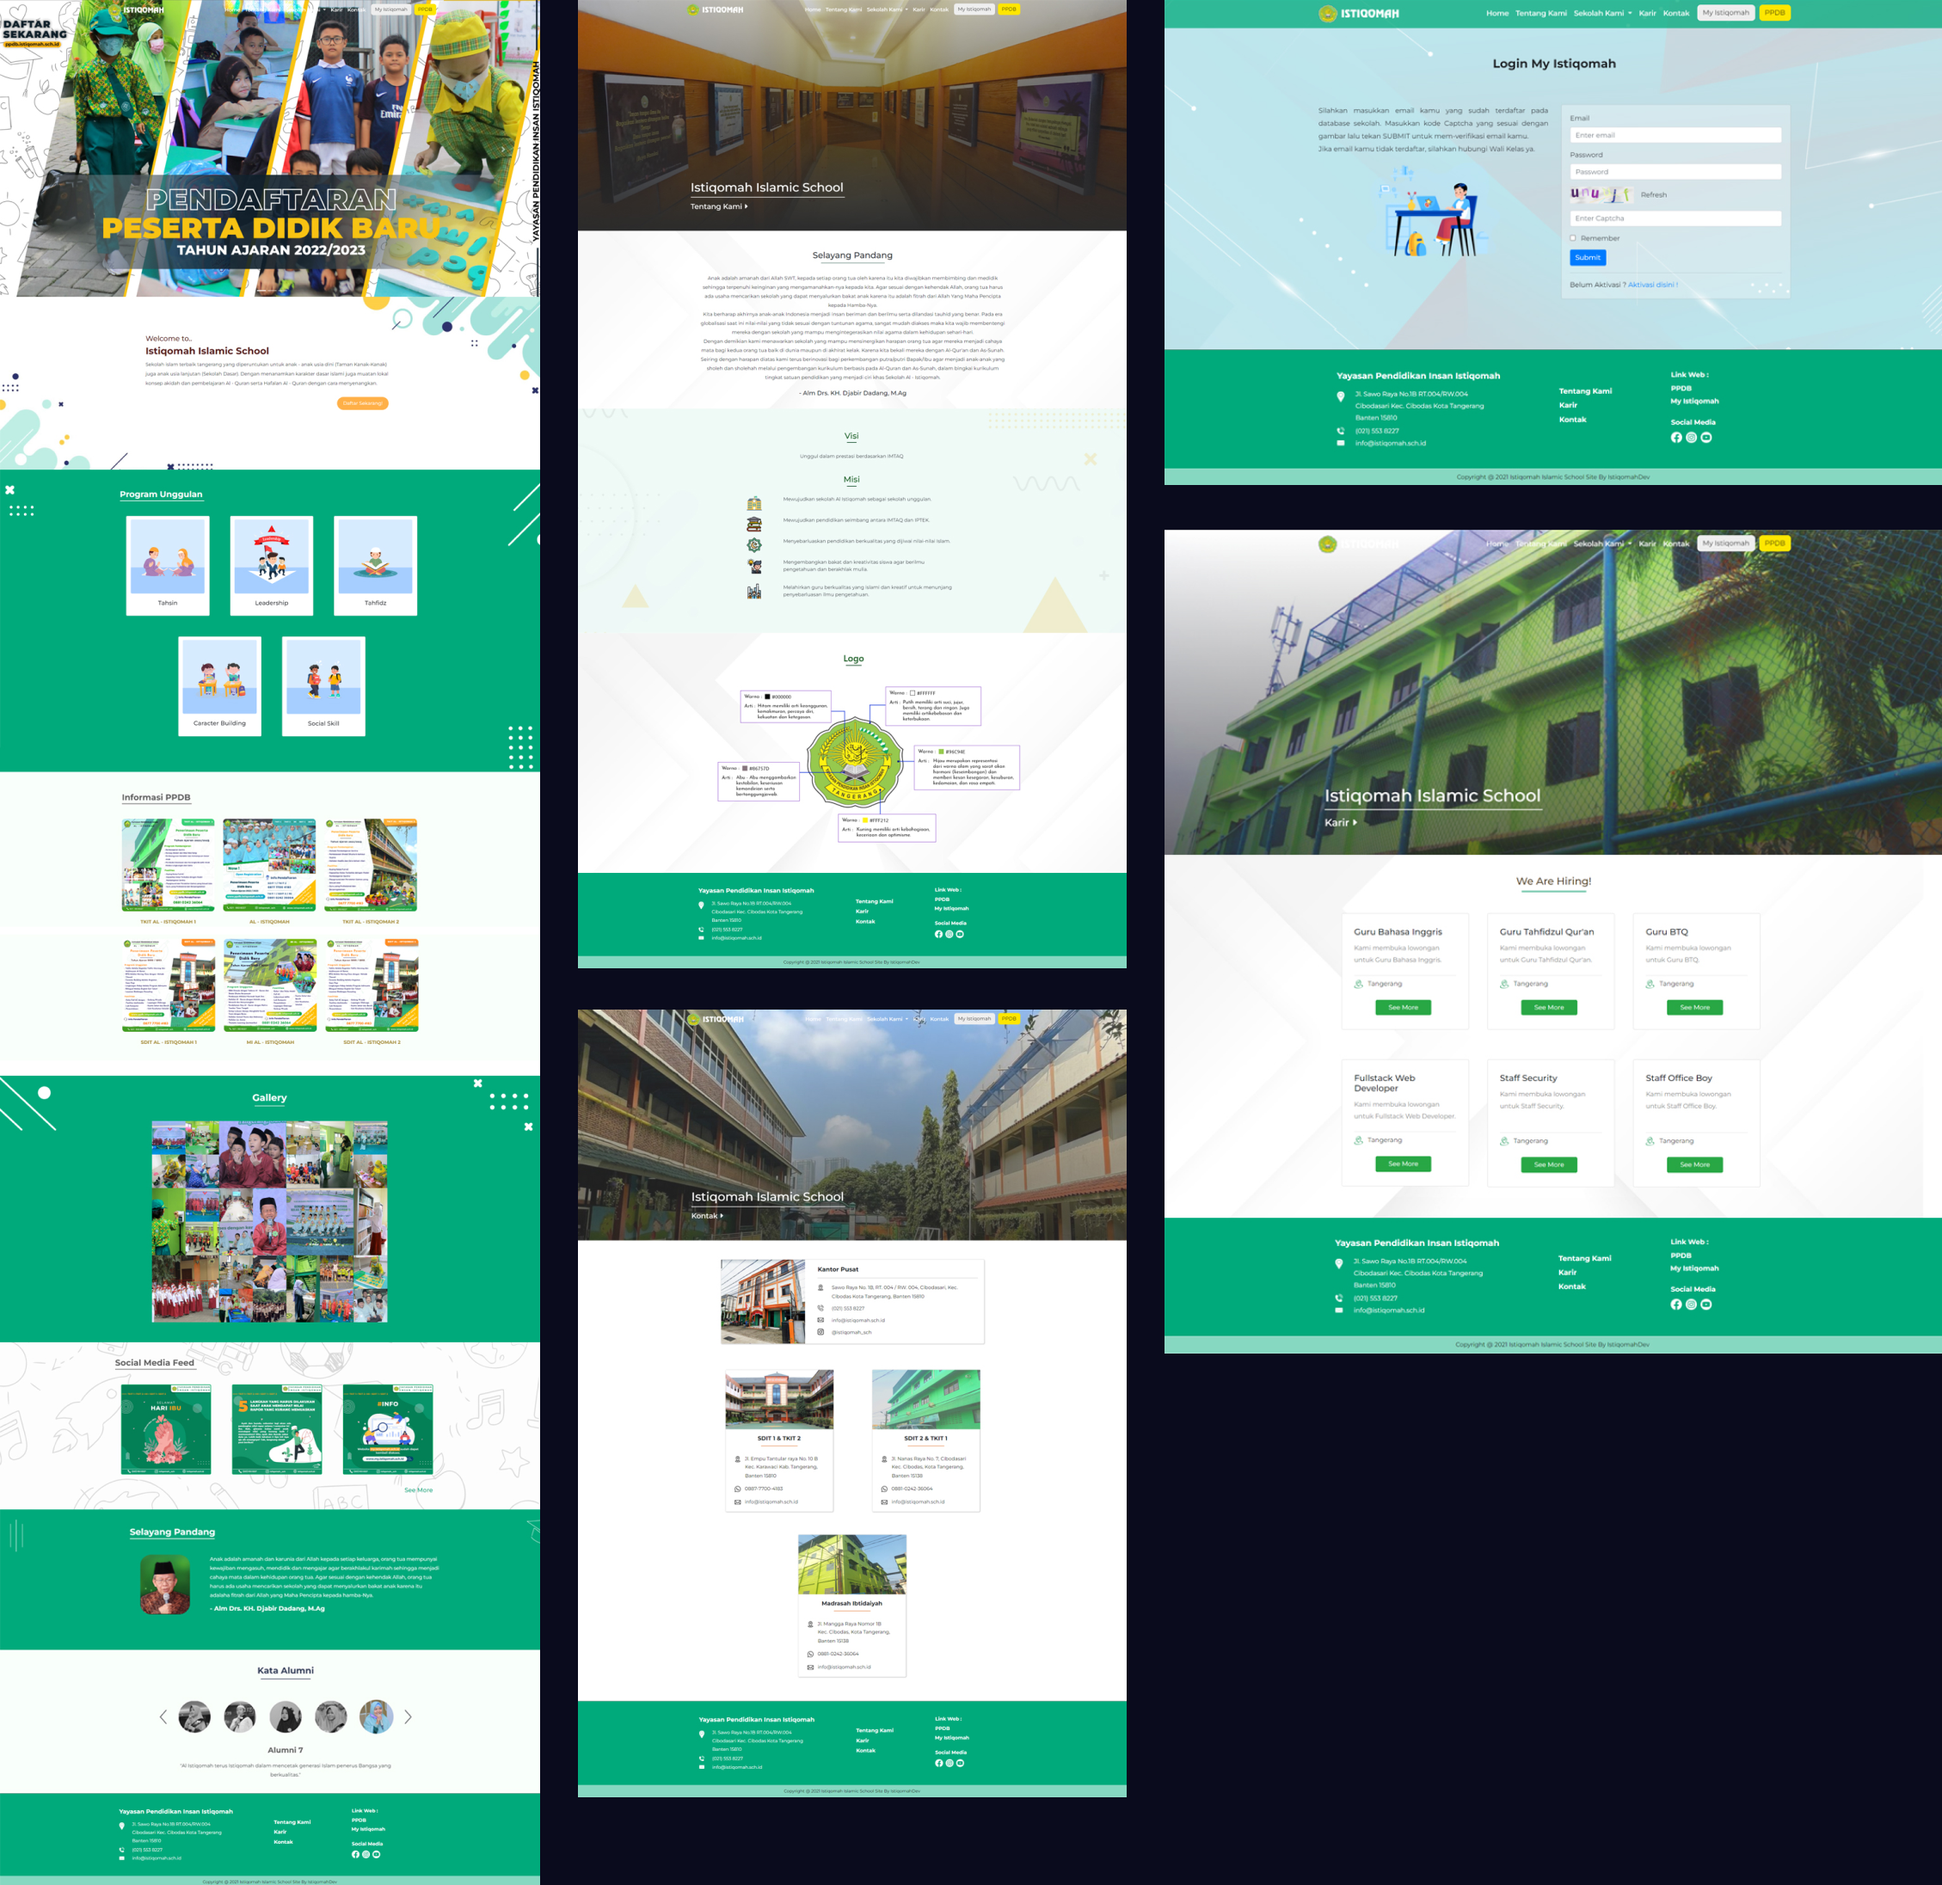
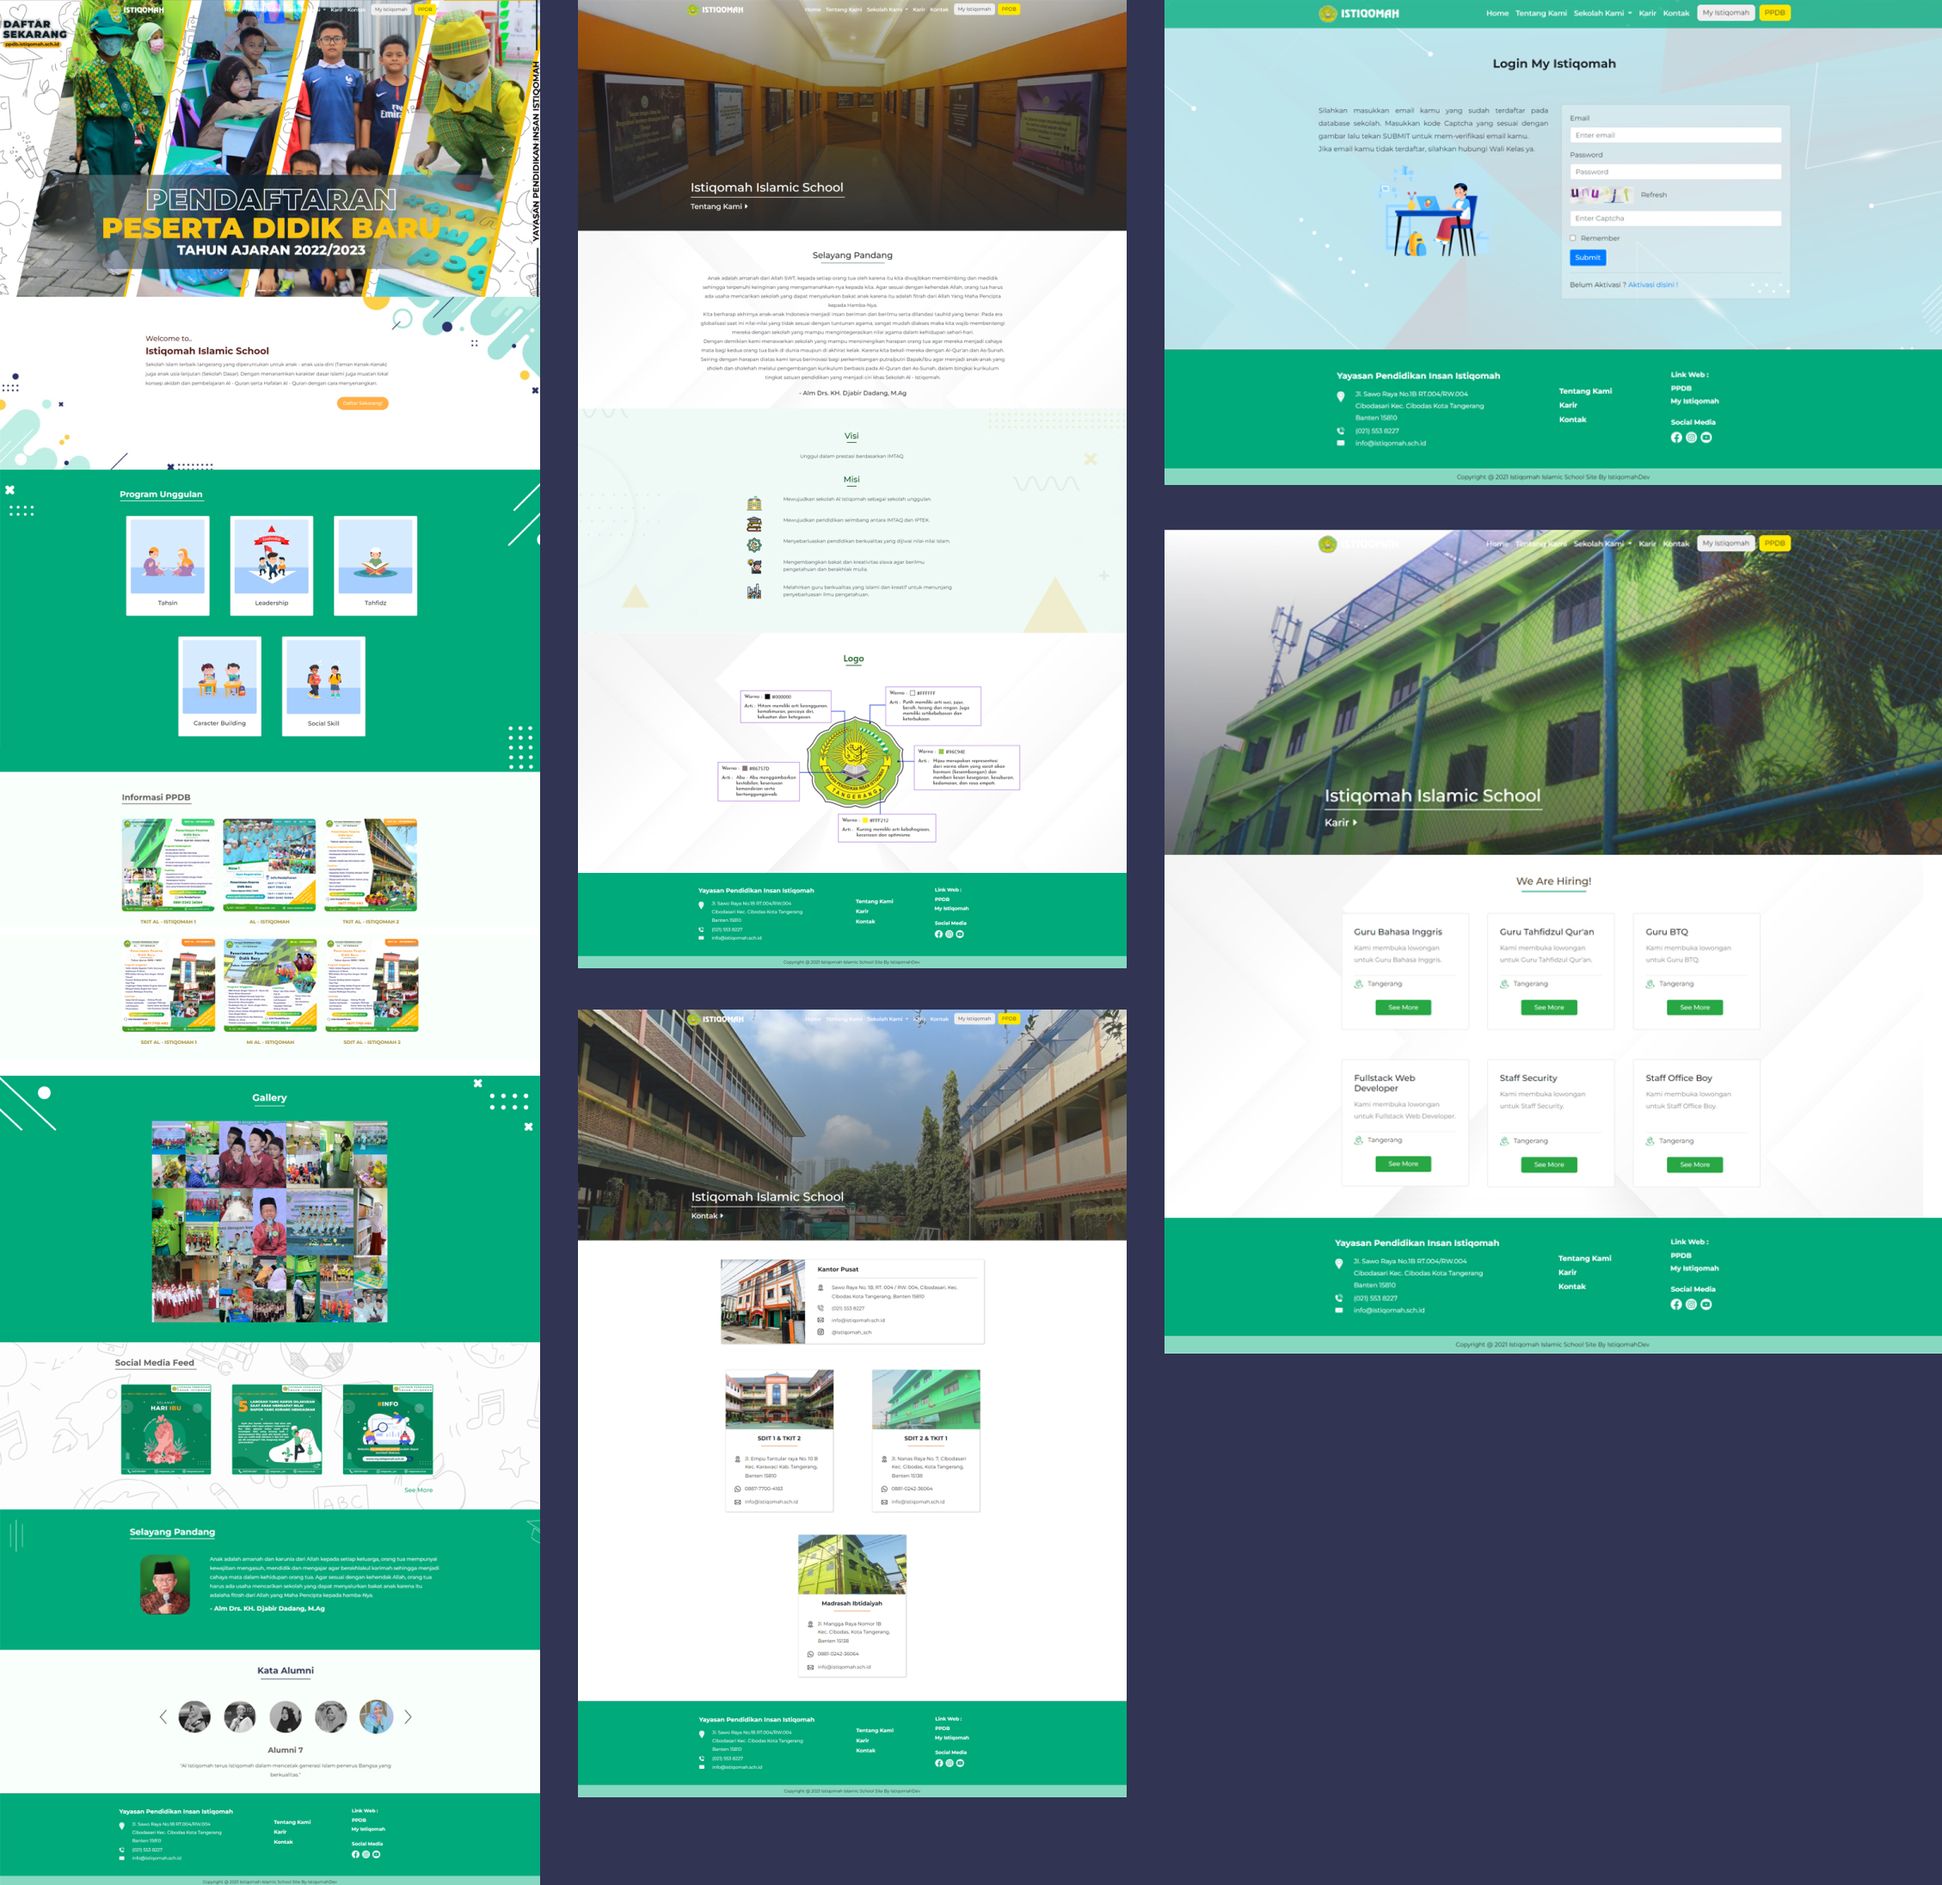
update

Changed region(s): [[0.279, 0.0, 1.0, 1.0]]

diff --git a/src/Style/Hero.css b/src/Style/Hero.css
@@ -23,7 +23,7 @@
     font-family: 'Righteous', cursive;
     color: rgb(28, 28, 28);
     letter-spacing: 2px;
-    font-size: 37px;
+    font-size: 35px;
     padding: 120px 80px;
     line-height: 80px;
 }
@@ -49,10 +49,18 @@
     }
 }
 
-@media screen and (max-width: 642px) {
+@media screen and (max-width: 754px) {
     .hero {
-        font-size: 28px;
-        padding-bottom: 50px;
+        font-size: 23px;
+        padding-top: 70px;
+        padding-bottom: 70px;
+    }
+}
+
+@media screen and (max-width: 655px) {
+    .hero {
+        font-size: 20px;
+        padding-bottom: 40px;
     }
 }
 
@@ -65,13 +73,25 @@
     }
 }
 
+@media screen and (max-width: 465px) {
+    .hero {
+        font-size: 16px;
+    }
+}
 
-@media screen and (max-width: 387px) {
+@media screen and (max-width: 391px) {
     .hero {
         padding-left: 20px;
         padding-top: 70px;
         padding-bottom: 30px;
-        font-size: 17px;
         line-height: 45px;
+    }
+}
+
+@media screen and (max-width: 379px) {
+    .hero {
+        padding-left: 10px;
+        padding-top: 50px;
+        font-size: 14px;
     }
 }

diff --git a/src/Component/About.js b/src/Component/About.js
@@ -11,7 +11,7 @@ export default function About() {
                 <img src={ImgMe} alt="me" />
             </div>
             <div className="text-me">
-               <p>Seorang Web Designer. Suka menghabiskan waktu berjam-jam di depan laptop bersama es kopi dan lagu-lagu favorite. Melakukan eksplorasi design dan suka membuat design yang simple dan modern yang memiliki fungsionalitas yang baik dan juga user friendly. Suka melakukan slicing design dengan skills tech stack yang dimiliki. Saat ini bertempat tinggal di Tangerang.</p>
+               <p>Senang menghabiskan waktu di depan laptop sambil mendengarkan lagu-lagu favorite bersama es kopi. Melakukan eksplorasi design dan suka membuat design web yang simple juga user friendly. Suka melakukan slicing design dengan skills tech stack yang dimiliki. Saat ini bertempat tinggal di Tangerang.</p>
                <p>Skills frontend dan design tools:</p>
                <div className="list-skills">
                 <ul className='list-1'>

diff --git a/src/Style/About.css b/src/Style/About.css
@@ -5,8 +5,8 @@
 }
 
 .img-me img {
-    width: 300px;
-    margin-top: 50px;
+    width: 420px;
+    margin-top: 40px;
 }
 
 .text-me {
@@ -31,13 +31,18 @@
     margin-left: 20px;
 }
 
+@media screen and (max-width: 1082px) {
+    .img-me img {
+        width: 350px;
+        margin-top: 50px;
+    }
+}
+
 @media screen and (max-width: 991px) {
     .about-me {
         padding: 90px 0 120px;
     }
-    .img-me img {
-        width: 250px;
-    }
+   
 }
 
 @media screen and (max-width: 880px) {
@@ -53,7 +58,8 @@
     }
 
     .img-me img {
-        width: 350px;
+        width: 420px;
+        margin-top: 20px;
     }
 
     .text-me {
@@ -69,12 +75,13 @@
         padding: 0px 0 80px;
     }
     .img-me img {
-        width: 250px;
+        width: 330px;
+        margin-top: 50px;
     }
 }
 
 @media screen and (max-width: 387px) {
     .img-me img {
-        width: 220px;
+        width: 260px;
     }
 }

diff --git a/src/Component/Portfolio/BurgerEnak.js b/src/Component/Portfolio/BurgerEnak.js
@@ -9,7 +9,7 @@ export default function Meppsimo() {
         <h2>Website Burger Enak</h2>
             <div className="text-projects">
                 <div className="subtitle-text">
-                    <p>Karena suka baget sama burger, muncul lah ide bikin web landing page ini. Dengan menerapkan prinsip swiss style, jelas design ui nya terlihat simple dan objektif tentunya.</p>
+                    <p>Karena suka banget sama burger, muncul lah ide bikin web landing page ini. Dengan menerapkan prinsip swiss style, jelas design ui nya terlihat simple dan objektif tentunya.</p>
                     <a href="https://burger-enak.netlify.app/" target="_blank" rel="noreferrer"><button>Lihat Web</button></a>
                     
                 </div>

diff --git a/src/Component/Hero.js b/src/Component/Hero.js
@@ -10,9 +10,9 @@ export default function Hero() {
         <a href="https://github.com/indrayanipitri" target="_blank" rel="noreferrer"><i className="fab fa-github"></i></a>
       </div>
       <div className="hero">
-        <h1 className='hero-name'>Pitri Indrayani,</h1>
+        <h1 >Hi!</h1>
           {/* <h1>UI/UX</h1> */}
-          <h1>Web Designer.</h1>
+          <h1 className='hero-name'>I'm Pitri Indrayani.</h1>
           {/* <h1>Frontend Developer</h1> */}
         </div>
     </div>

diff --git a/src/Component/Portfolio/Meppsimo.js b/src/Component/Portfolio/Meppsimo.js
@@ -17,7 +17,9 @@ export default function Meppsimo() {
                     <h4>Tool Design :</h4>
                     <p>Adobe Xd</p>
                     <h4 className='font-text'>Font :</h4>
+                    <p>Montserrat</p>
                     <p>Noto Sans</p>
+                    <p>Crete Round</p>
                 </div>
             </div>
             <p className='tech-stack'>Tech Stack: HTML, CSS, Bootstrap.</p>

diff --git a/src/Style/Portfolio.css b/src/Style/Portfolio.css
@@ -126,9 +126,9 @@
     background-color: #171830;
 }
 
-/* TKIT */
+/* Istiqomah */
 .background-istiqomah {
-    background-color: #0c0a1b;
+    background-color: #313453;
 }
 
 /* Todo */
